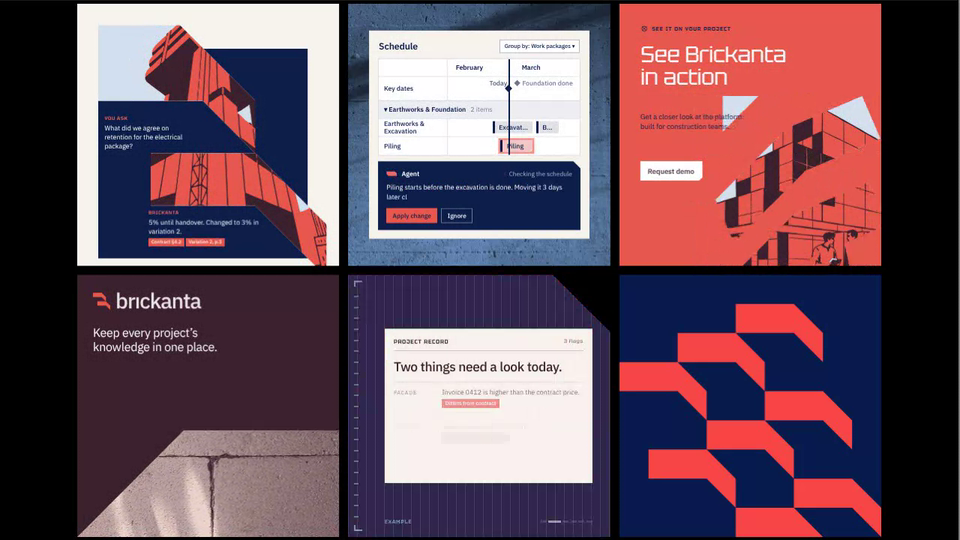
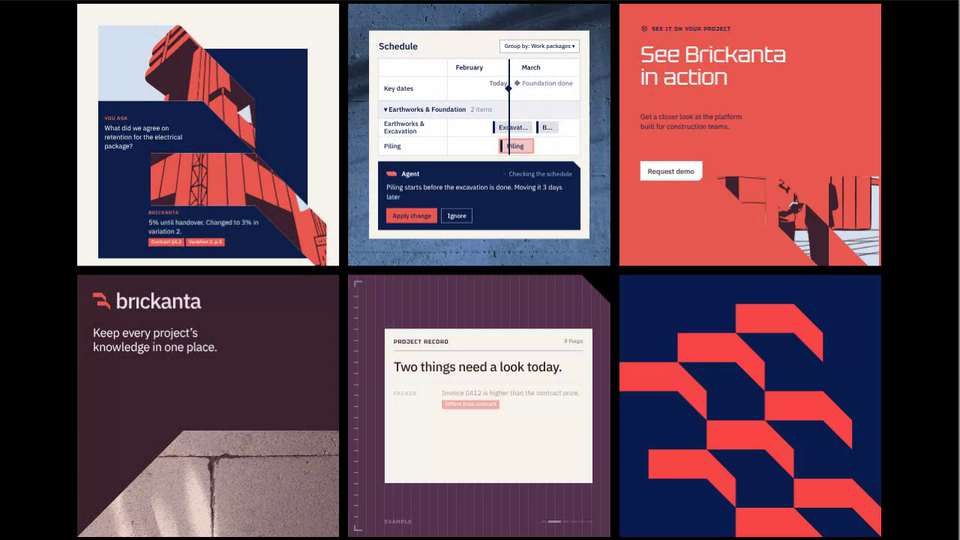
Brickanta Enterprise Visuals: static footer shards, softer corner, UI card caption (#749)
* Add Brickanta Enterprise Visuals: hero, schedule card, footer shards, example switcher

Claude-Session: https://claude.ai/code/session_01AHeBdx6VwrnghjqkrgPY7Q

* Brickanta Enterprise Visuals: footer visual only

Claude-Session: https://claude.ai/code/session_01AHeBdx6VwrnghjqkrgPY7Q

* Brickanta Enterprise Visuals: six squares in two rows of three, logo lockup, static pattern

Claude-Session: https://claude.ai/code/session_01AHeBdx6VwrnghjqkrgPY7Q

* Brickanta Enterprise Visuals: six squares in two rows of three, logo lockup, static pattern

Claude-Session: https://claude.ai/code/session_01AHeBdx6VwrnghjqkrgPY7Q

* Brickanta Enterprise Visuals: static footer shards off the bottom edge, softer corner cut, UI card caption

Claude-Session: https://claude.ai/code/session_01AHeBdx6VwrnghjqkrgPY7Q

---------

diff --git a/brickanta-enterprise-visuals/index.html b/brickanta-enterprise-visuals/index.html
@@ -84,7 +84,7 @@ figcaption{margin-top:14px;padding:18px 22px;background:var(--paper);color:var(-
 .card.fixed .a1,.card.fixed .a3{display:none}.card.fixed .a2{display:inline-flex!important}
 
 /* 4 example project switcher */
-.s-ex{clip-path:polygon(0 0,calc(100% - 6cqw) 0,100% 6cqw,100% 100%,0 100%)}
+.s-ex{clip-path:polygon(0 0,calc(100% - 3cqw) 0,100% 3cqw,100% 100%,0 100%)}
 .s-ex::before,.s-ex::after{content:"";position:absolute;left:2.4cqw;width:2.4cqw;height:1.6cqw;border-left:2px solid currentColor;opacity:.7}
 .s-ex::before{top:2.4cqw;border-top:2px solid currentColor}.s-ex::after{bottom:2.4cqw;border-bottom:2px solid currentColor}
 .s-ex .ruler{position:absolute;left:2.4cqw;top:7.5cqw;bottom:7.5cqw;width:1.6cqw;opacity:.5;background:repeating-linear-gradient(0deg,currentColor 0 2px,transparent 2px 4.2cqw)}
@@ -122,7 +122,7 @@ figcaption{margin-top:14px;padding:18px 22px;background:var(--paper);color:var(-
 .s-foot h2{position:absolute;left:8%;top:15%;font:400 8.6cqw/1.02 var(--display);letter-spacing:-.025em;color:#fff}
 .s-foot p{position:absolute;left:8%;top:41%;width:44%;font-size:2.7cqw;line-height:1.4}
 .btn{position:absolute;left:8%;top:60%;display:inline-flex;font:500 2.7cqw var(--sans);padding:1.9cqw 3.2cqw 1.9cqw 2.8cqw;background:#fff;color:var(--plum);clip-path:polygon(0 0,100% 0,100% calc(100% - 1.4cqw),calc(100% - 1.4cqw) 100%,0 100%)}
-.mk{position:absolute;right:-9%;bottom:-17%;width:82%;aspect-ratio:1;overflow:hidden;z-index:-1}
+.mk{position:absolute;inset:0;width:100%;height:100%;z-index:-1}
 </style>
 </head>
 <body>
@@ -172,18 +172,18 @@ figcaption{margin-top:14px;padding:18px 22px;background:var(--paper);color:var(-
         </div>
       </div>
     </div>
-    <figcaption>Schedule card on texture</figcaption>
+    <figcaption>UI card on texture</figcaption>
   </figure>
 
   <figure>
-    <div class="stage s-foot" id="fFoot" role="img" aria-label="A coral panel with the heading See Brickanta in action; below it two bars with 45 degree turns and two shards morph through new combinations, cutting a tower picture">
+    <div class="stage s-foot" id="fFoot" role="img" aria-label="A coral panel with the heading See Brickanta in action and three 45 degree shards running off the bottom edge that show a tower picture">
       <div class="eb"><svg><use href="#bp"/></svg>See it on your project</div>
       <h2>See Brickanta<br>in action</h2>
       <p>Get a closer look at the platform built for construction teams.</p>
       <span class="btn">Request demo</span>
-      <svg class="mk" id="morph" viewBox="0 0 6 6" aria-hidden="true"><defs><clipPath id="mkc"><polygon id="mA"/><polygon id="mB"/><polygon id="mC"/><polygon id="mD"/></clipPath></defs><g clip-path="url(#mkc)"><use href="#ill3" width="6" height="6"/></g></svg>
+      <svg class="mk" id="morph" viewBox="0 0 6 6" preserveAspectRatio="none" aria-hidden="true"><defs><clipPath id="mkc"><polygon points="2.2,3.95 3.35,3.95 3.35,5.1"/><polygon points="3.65,3.95 4.8,5.1 4.8,6.25 3.65,5.1"/><polygon points="4.8,3.95 5.95,3.95 5.95,6.25 4.8,5.1"/></clipPath></defs><g clip-path="url(#mkc)"><use href="#ill3" x="0" y="0" width="6" height="6"/></g></svg>
     </div>
-    <figcaption>Footer shard animation</figcaption>
+    <figcaption>Footer shards</figcaption>
   </figure>
 
   <figure>
@@ -265,30 +265,6 @@ figcaption{margin-top:14px;padding:18px 22px;background:var(--paper);color:var(-
     C.brk.style.width=w/20*1.6+'em';C.brk.style.height=h/20*1.6+'em';C.brk.style.setProperty('--c',(fixed?lerp(.32,.45,s):.32)+'em');
   }
 
-  /* ---------- 3. footer shards: two bars and two shards on a 6 x 6 grid, a new combination every 2.4s ---------- */
-  var M=(function(){
-    var T=1.7;
-    var base=function(w,d){return [[0,0],[w,0],[w+d,d],[w+d,d+T],[w,T],[0,T]]};
-    function shape(x,y,w,d,r,m){
-      var bw=w+d,bh=d+T,pts=base(w,d);
-      if(m){pts=pts.map(function(q){return [bw-q[0],q[1]]}).reverse()}
-      for(var k=0;k<r;k++){var Hh=(k%2?bw:bh);pts=pts.map(function(q){return [Hh-q[1],q[0]]});var tt=bw;bw=bh;bh=tt}
-      return pts.map(function(q){return [q[0]+x,q[1]+y]});
-    }
-    var pad=function(pts){pts=pts.slice();while(pts.length<6)pts.push(pts[pts.length-1]);return pts};
-    var BARS=[[[0,0,3,2,0,0],[1,3,3,2,0,0]],[[1,0,3,2,0,1],[0,3,3,2,0,1]],[[0,0,3,2,1,0],[3,1,3,2,1,0]],[[3,0,3,2,1,1],[0,1,3,2,1,1]],[[1,0,3,2,2,0],[0,3,3,2,2,0]],[[0,1,3,2,3,0],[3,0,3,2,3,0]],[[0,0,4,2,0,0],[0,3,4,2,0,1]],[[0,1,4,1,0,0],[1,4,4,1,0,0]]];
-    var SHARDS=[[[[5,0],[6,0],[6,1]],[[0,3],[1,4],[1,6],[0,5]]],[[[0,0],[1,0],[0,1]],[[6,3],[6,5],[5,6],[5,4]]],[[[3,0],[4,0],[3,1]],[[0,5],[1,5],[0,6]]],[[[5,0],[6,0],[6,1]],[[3,5],[5,5],[6,6],[4,6]]],[[[0,0],[1,0],[0,1]],[[5,3],[6,4],[6,6],[5,5]]],[[[0,0],[2,0],[3,1],[1,1]],[[5,6],[6,6],[6,5]]],[[[0,0],[1,0],[0,1]],[[6,5],[6,6],[5,6]]],[[[5,0],[6,0],[6,1]],[[0,3],[1,3],[0,4]]]];
-    var COMBOS=BARS.map(function(c,i){return c.map(function(a){return shape.apply(null,a)}).concat(SHARDS[i].map(pad))});
-    var P=['#mA','#mB','#mC','#mD'].map(function(s){return $(s)});
-    var put=function(el,pts){el.setAttribute('points',pts.map(function(q){return q[0].toFixed(3)+','+q[1].toFixed(3)}).join(' '))};
-    var SLOT=2.4,HOLD=.9,TW=1.5;
-    return {P:COMBOS.length*SLOT,draw:function(t){
-      t=((t%(COMBOS.length*SLOT))+COMBOS.length*SLOT)%(COMBOS.length*SLOT);
-      var i=Math.floor(t/SLOT),u=io(seg(t-i*SLOT,HOLD,HOLD+TW)),a=COMBOS[i],b=COMBOS[(i+1)%COMBOS.length];
-      P.forEach(function(el,s){put(el,a[s].map(function(q,k){return [lerp(q[0],b[s][k][0],u),lerp(q[1],b[s][k][1],u)]}))});
-    }};
-  })();
-
   /* ---------- 4. example project switcher: each example swaps the stage colour and rebuilds its card ---------- */
   var XT=[
     {l:'Ask your project',bg:'#e8584f',ln:'#3c222e',hd:['Ask your project','Live'],big:'What did we agree on retention for the electrical package?',rows:[['Answer','5% held until handover. Changed to 3% in variation 2.<br><em>Contract §4.2</em><em>Variation 2, p.3</em>'],['Also found','2 open questions on the same package.']]},
@@ -337,10 +313,10 @@ figcaption{margin-top:14px;padding:18px 22px;background:var(--paper);color:var(-
 
   /* ---------- clock ---------- */
   var T=FROM,last=performance.now(),playing=!reduce;
-  function draw(){hero(T);sched(T);M.draw(T);ex(T);LA(T)}
+  function draw(){hero(T);sched(T);ex(T);LA(T)}
   function frame(now){var dt=(now-last)/1000;last=now;if(playing&&!document.hidden)T+=Math.min(dt,.1);draw();requestAnimationFrame(frame)}
   if(reduce){T=4.2;draw()}                       /* still frame: everything on show */
-  if(reduce){hero(4.2);sched(8);M.draw(0);ex(3.2);LA(4)}
+  if(reduce){hero(4.2);sched(8);ex(3.2);LA(4)}
   else{draw();requestAnimationFrame(function(n){last=n;frame(n)})}
   window.__bv={play:function(){playing=true},pause:function(){playing=false},seek:function(t){T=t;draw()},get t(){return T}};
 })();

diff --git a/tools/record-clips.js b/tools/record-clips.js
@@ -124,7 +124,7 @@ const APPS = {
   // the porcupine under perforated purple and red bands sweeping in different directions, with three whip zooms (eye, quills, feet) per 6 s loop; starts on the wide shot
   'porcupine-glitch': { vp: [1280, 769], crop: [0, 49, 1280, 720], hash: '#from=-1.8', ready: 1000, q: 55, run: async (p) => { await sleep(5800); } },
   'postmark-awards-brand-visuals': { vp: [1280, 769], crop: [0, 49, 1280, 720], ready: 1500, q: 55, run: async (p) => { await sleep(5600); } },
-  // Brickanta Enterprise Visuals, six 1:1 squares in two rows of three: the hero tile opens along the logo's 45 degree line, the schedule card on concrete types its finding and moves the piling bar, the footer shards morph, the logo lockup gets its duotone shard, the example card switches examples, plus a static bar pattern
+  // Brickanta Enterprise Visuals, six 1:1 squares in two rows of three: the hero tile opens along the logo's 45 degree line, the schedule card on concrete types its finding and moves the piling bar, the footer shards sit off the bottom edge, the logo lockup gets its duotone shard, the example card switches examples, plus a static bar pattern
   'brickanta-enterprise-visuals': { vp: [1280, 769], crop: [0, 49, 1280, 720], hash: '#clip&from=0.8', ready: 1500, q: 58, run: async (p) => { await sleep(5800); } },
   'thread-brand-visuals': { vp: [1280, 769], crop: [0, 49, 1280, 720], hash: '#from=8.4', ready: 1500, q: 55, run: async (p) => { await sleep(5600); } },
   // the landing page: hero with the live countdown and the hairline grid lighting up, then a scroll through the keynotes, tracks and community cards and back up
